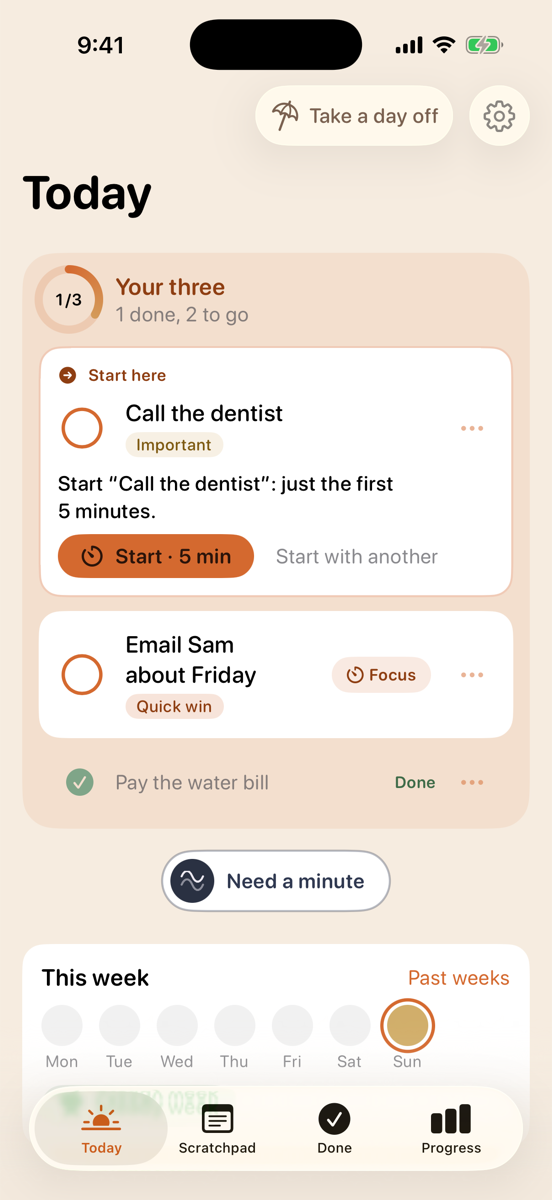
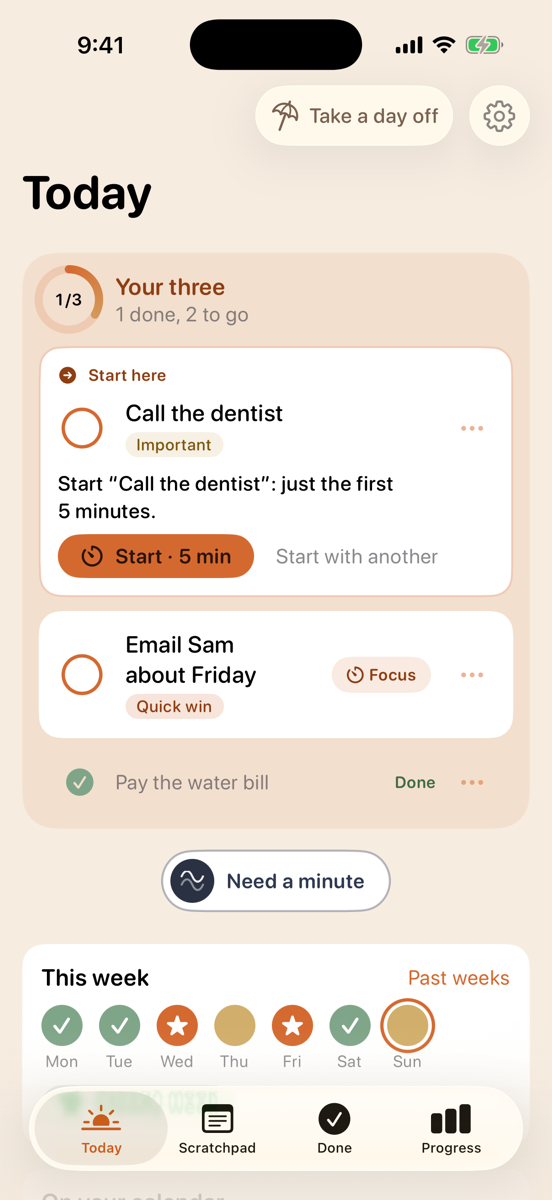
Every tab on the home page; Sunrise colours

diff --git a/style.css b/style.css
@@ -1,22 +1,25 @@
 :root {
-  --bg: #F7F1E6;
-  --card: #FFFBF4;
-  --ink: #3B3330;
-  --muted: #7A6E66;
-  --clay: #B8654A;
-  --sage: #7D9A7E;
-  --line: #E8DCCB;
+  /* Sunrise (Oct 25, 2026), like the app: warm sand page, white cards, apricot. */
+  --bg: #F6ECE0;
+  --card: #FFFFFF;
+  --ink: #2A211C;
+  --muted: #7A6A5C;
+  --clay: #B4521F;
+  --sage: #4F8A62;
+  --line: #EADCCB;
+  --on-clay: #FFFFFF;
 }
 
 @media (prefers-color-scheme: dark) {
   :root {
-    --bg: #211C19;
-    --card: #2B2521;
-    --ink: #F2EAE0;
-    --muted: #B3A79C;
-    --clay: #D88A6E;
-    --sage: #9DBA9E;
-    --line: #3D3530;
+    --bg: #16121D;
+    --card: #231D2C;
+    --ink: #F5EEF2;
+    --muted: #B3A7B8;
+    --clay: #F0A06B;
+    --sage: #8CC39D;
+    --line: #3A3145;
+    --on-clay: #2B140A;
   }
 }
 
@@ -83,7 +86,7 @@ footer {
   padding: 13px 26px;
   border-radius: 999px;
   background: var(--clay);
-  color: #fff;
+  color: var(--on-clay);
   font-weight: 600;
   text-decoration: none;
 }
@@ -108,20 +111,21 @@ footer {
 .highlight h2 { font-size: 1.02rem; margin: 0 0 6px; }
 .highlight p { margin: 0; color: var(--muted); font-size: 0.95rem; line-height: 1.5; }
 
+/* Six screenshots (Oct 25, 2026): three across, two across on a phone. */
 .shots {
-  display: flex;
-  justify-content: center;
-  gap: 28px;
-  flex-wrap: wrap;
+  display: grid;
+  grid-template-columns: repeat(3, 1fr);
+  justify-items: center;
+  gap: 32px 20px;
   margin: 0 0 32px;
 }
 .shots figure { margin: 0; text-align: center; }
 .shots img {
-  width: 240px;
+  width: 220px;
   height: auto;
   border-radius: 36px;
   border: 1px solid var(--line);
-  box-shadow: 0 12px 30px rgba(59, 51, 48, 0.12);
+  box-shadow: 0 12px 30px rgba(42, 33, 28, 0.12);
 }
 .shots figcaption { margin-top: 10px; font-size: 0.9rem; color: var(--muted); }
 
@@ -130,7 +134,8 @@ footer {
 @media (max-width: 640px) {
   .highlights { grid-template-columns: 1fr; }
   .hero h1 { font-size: 2.2rem; }
-  .shots img { width: 200px; }
+  .shots { grid-template-columns: repeat(2, 1fr); gap: 24px 12px; }
+  .shots img { width: 100%; max-width: 200px; }
 }
 
 .story {

diff --git a/index.html b/index.html
@@ -48,8 +48,24 @@
 
   <section class="shots" aria-label="Screenshots">
     <figure>
-      <img src="images/today.png" alt="Soonish's Today screen: your three in one panel, a Start here highlight, one ticked off, and a progress ring at 1 of 3." width="276" height="600" loading="lazy">
+      <img src="images/today.png" alt="Soonish's Today screen: your three in one panel, a Start here highlight, one ticked off, a progress ring at 1 of 3, and this week's dots." width="276" height="600" loading="lazy">
       <figcaption>Today: your three, and where to start</figcaption>
+    </figure>
+    <figure>
+      <img src="images/scratchpad.png" alt="The Scratchpad: one line to add anything, Up next with a deadline chip, and dated tasks grouped into Tomorrow, This month and No date." width="276" height="600" loading="lazy">
+      <figcaption>Scratchpad: get it out of your head</figcaption>
+    </figure>
+    <figure>
+      <img src="images/done.png" alt="The Done tab: 21 things done this week, the week's dots, and each day's finished tasks." width="276" height="600" loading="lazy">
+      <figcaption>Done: everything you finished</figcaption>
+    </figure>
+    <figure>
+      <img src="images/progress.png" alt="The Progress tab: notes about when you get things done, things done each week, and a month of coloured day dots." width="276" height="600" loading="lazy">
+      <figcaption>Progress: numbers that only go up</figcaption>
+    </figure>
+    <figure>
+      <img src="images/need-a-minute.png" alt="Need a minute: a calm dark screen offering a 2-minute reset, a 15-minute micro-bite, or clearing your head." width="276" height="600" loading="lazy">
+      <figcaption>Need a minute: for when it's all too much</figcaption>
     </figure>
     <figure>
       <img src="images/badge.png" alt="A Perfect week badge celebration: a silver-rimmed hexagon pin with a gold enamel star." width="276" height="600" loading="lazy">
